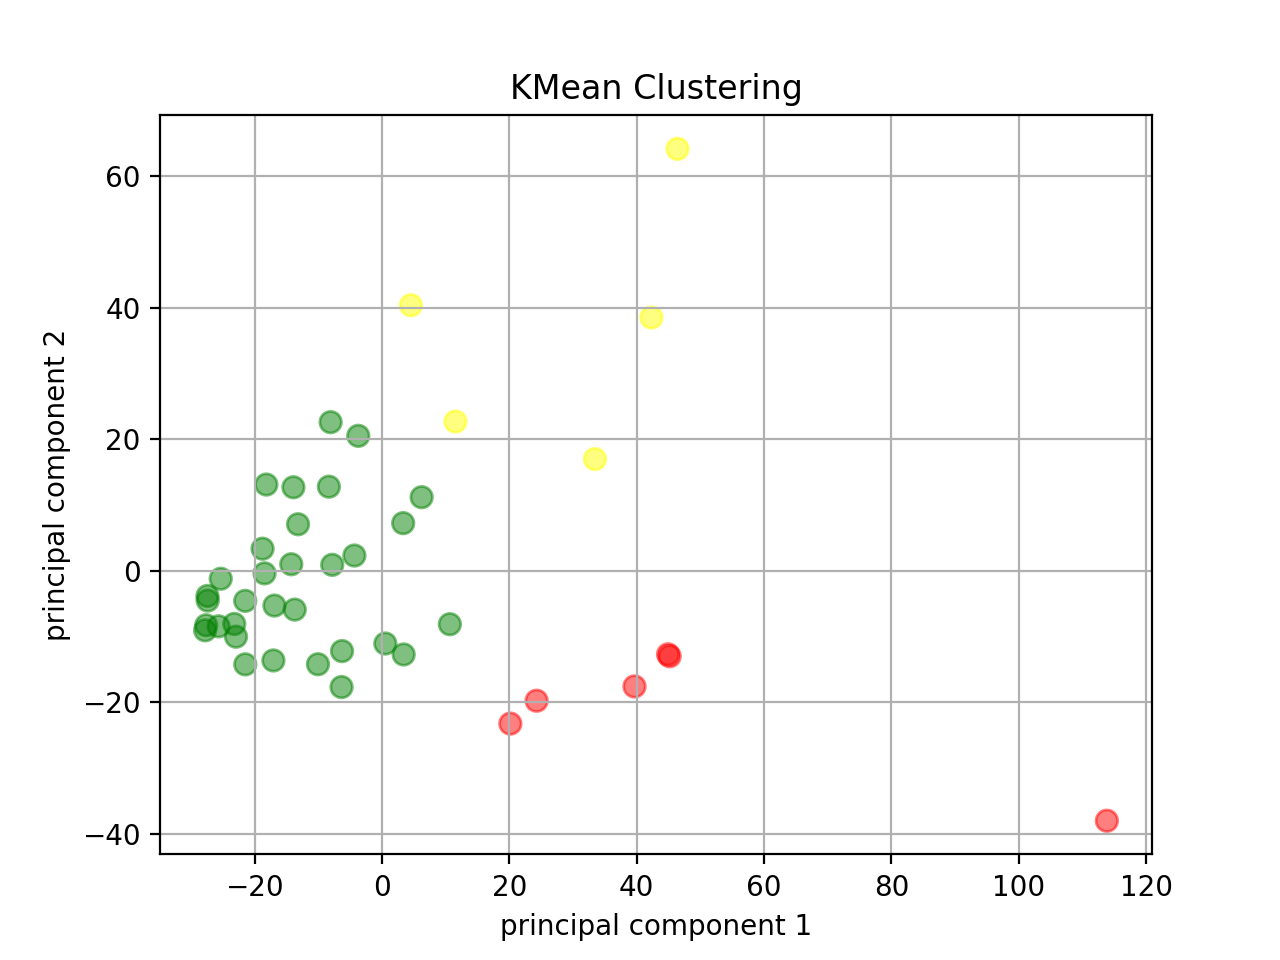
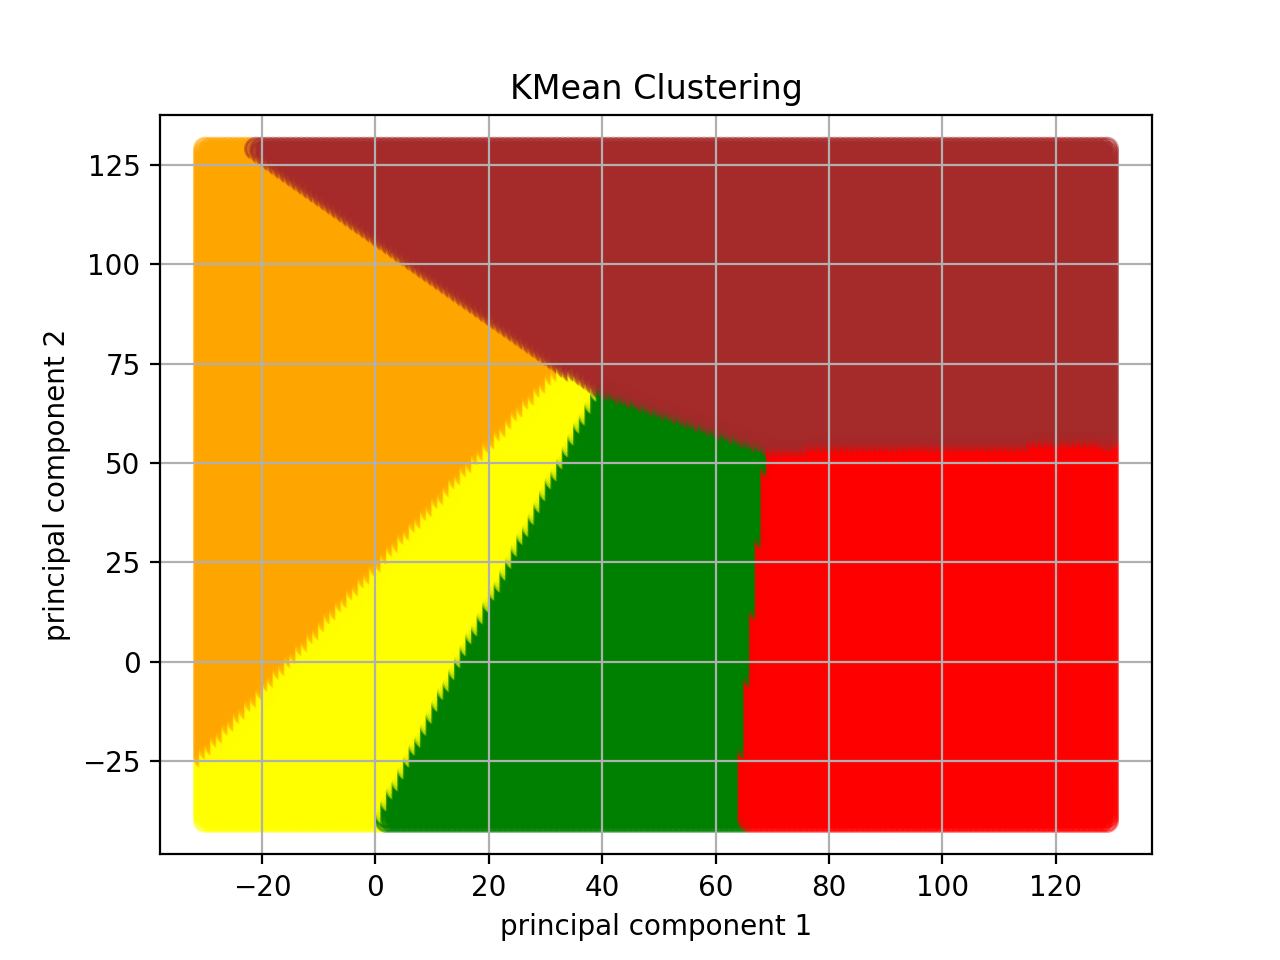
clustering(regions), plus some fronted updates

diff --git a/core/templates/index.html b/core/templates/index.html
@@ -1,28 +1,45 @@
 {% extends 'base.html' %}
 {% load static %}
 
-{% block title %}Main form{% endblock %}
+{% block title %}Перевірте зону ризику вашого паціента{% endblock %}
 
 {% block content %}
-<img id="kmeans" src="/static/images/KMeans_Cluster.png" class="rounded" alt="cluster" width="800px">
-<div class="form-group">
-  <label for="sel1">Select matrix:</label>
-  <select class="form-control" id="sel1" onchange="selectImage(this)">
-    {% for s in samples %}
-      <option>{{s}}</option>
-    {% endfor %}
-  </select>
+<h2>Перевірте зону ризику вашого паціента</h2>
+<p>Для користувачів системи ДіаКард</p>
+<div class="row">
+  <div class="col-6">
+    <br/>
+    <h3>Що для цього потрібно зробити:</h3>
+    <br/>
+    <ul>
+      <li>Експортувати RR-інтервали з дослідження системою ДіаКард</li>
+      <li>Завантажити експортований файл</li>
+      <li>Отримати оцінку зони ризику сформованою штучним інтелектом</li>
+    </ul>
+  </div>
+  <div class="col-6">
+    <div class="card">
+      <div class="card-header">Завантаження файлу з RR-інтервалами</div>
+      <div class="card-body">
+        <form id="upload-form" method="post" class="form" name="uploadForm" enctype="multipart/form-data"> {% csrf_token %}
+          <div class="form-group">
+            <input name="inputBeats" type="file" class="form-control" id="input-beats" accept=".beat" placeholder="Вибріть файл з RR-інтервалами (*.beat)"
+                   required autocomplete="off" data-validation-required-message="Обовз'язково виберіть файл з RR-інтервалами">
+            <p class="help-block text-danger"></p>
+          </div>
+          <p class="msg_error">{{info}}</p>
+          <div class="form-group text-right">
+            <button type="submit" class="btn btn-primary color">Завантажити &raquo;</button>
+          </div>
+        </form>
+      </div>
+    </div>
+  </div>
 </div>
-<img id="heatmap" src="/api/heatmap/1/" class="rounded" alt="matrix_heatmap">
 {% endblock %}
 
 {% block js_content %}
 <script>
-function selectImage(sel){
- const img = document.getElementById("heatmap");
- const n = sel.value;
- console.log(n);
- img.setAttribute("src", `/api/heatmap/${n}/`);
-}
+
 </script>
 {% endblock %}

diff --git a/core/templates/index0.html b/core/templates/index0.html
@@ -1,0 +1,28 @@
+{% extends 'base.html' %}
+{% load static %}
+
+{% block title %}Main form{% endblock %}
+
+{% block content %}
+<img id="kmeans" src="/static/images/KMeans_Cluster.png" class="rounded" alt="cluster" width="800px">
+<div class="form-group">
+  <label for="sel1">Select matrix:</label>
+  <select class="form-control" id="sel1" onchange="selectImage(this)">
+    {% for s in samples %}
+      <option>{{s}}</option>
+    {% endfor %}
+  </select>
+</div>
+<img id="heatmap" src="/api/heatmap/1/" class="rounded" alt="matrix_heatmap">
+{% endblock %}
+
+{% block js_content %}
+<script>
+function selectImage(sel){
+ const img = document.getElementById("heatmap");
+ const n = sel.value;
+ console.log(n);
+ img.setAttribute("src", `/api/heatmap/${n}/`);
+}
+</script>
+{% endblock %}

diff --git a/core/templates/base.html b/core/templates/base.html
@@ -13,7 +13,7 @@
 {% block modal %} {% endblock %}
 <div class="container">
     <div class="d-flex flex-column flex-md-row align-items-center p-3 px-md-4 mb-3 bg-white border-bottom shadow-sm">
-      <h5 class="my-0 mr-md-auto font-weight-normal"><a href="/">RR Matrixes</a></h5>
+      <h5 class="my-0 mr-md-auto font-weight-normal"><a href="/">Smart Heart Checker</a></h5>
     {% if user.is_authenticated %}
       <a class="btn" href="#">{{ user.username }}</a>
       <a class="btn btn-outline-primary" href="{% url 'logout' %}">Logout</a>

diff --git a/core/templates/heatmap.html b/core/templates/heatmap.html
@@ -1,0 +1,9 @@
+{% extends 'base.html' %}
+{% load static %}
+
+{% block title %}Мапа активності серця{% endblock %}
+
+{% block content %}
+<h2>Мапа активності серця паціента</h2>
+<img id="heatmap" src="/api/heatmap/patient/?heatmap_fn={{heatmap_fn}}" class="rounded" alt="matrix_heatmap">
+{% endblock %}

diff --git a/core/tools.py b/core/tools.py
@@ -1,5 +1,7 @@
 import numpy as np
 import os
+import tempfile
+import pickle
 from sklearn.decomposition import PCA
 from sklearn.preprocessing import StandardScaler
 from sklearn.cluster import KMeans
@@ -9,8 +11,22 @@ R_MIN = 0.2 #200 miliseconds - minimal RR
 R_MAX = 1.9 #2000 miliseconds - maximal RR
 N_CELLS= 60 #quantity of cells
 N_RANGES = 10 #quantity of ranges
-N_CLUSTERS = 3 #quantity of clusters
-CLUSTER_COLOURS = ['green', 'yellow', 'red']
+N_CLUSTERS = 5 #quantity of clusters
+MODEL_FN = 'clustering_model.npy' #
+CLUSTER_COLOURS = ['green', 'yellow', 'orange', 'brown', 'red']
+
+
+def save_bin(bin, fn):
+    fp = open(fn,'w')
+    fp.write(bin)
+    fp.close()
+
+
+def save_temp(content, dir, prefix, suffix):
+    tf = tempfile.NamedTemporaryFile(delete=False, dir=dir, prefix=prefix, suffix=suffix)
+    tf.write(content)
+    tf.flush()
+    return os.path.basename(tf.name)
 
 
 def rr_reader(filename):
@@ -95,9 +111,29 @@ def store_matrix_list(matrix_list, path):
     np.save(os.path.join(path, 'rr_matrixes.npy'), np.array(matrix_list))
 
 
+def store_heatmap(rr_matrix, path, fn):
+    np.save(os.path.join(path, fn), rr_matrix)
+
+
+def store_model(model, path, fn):
+    fp = open(os.path.join(path, fn), 'wb')
+    pickle.dump(model, fp)
+
+
+def load_model(path, fn):
+    fp = open(os.path.join(path, fn), 'rb')
+    model = pickle.load(fp)
+    return model
+
+
 def load_matrix_list(path):
     matrix_list = np.load(os.path.join(path, 'rr_matrixes.npy'))
     return matrix_list
+
+
+def load_heatmap(path, fn):
+    rr_matrix = np.load(os.path.join(path, fn))
+    return rr_matrix
 
 
 def get_matrix_list_count(path):
@@ -165,10 +201,14 @@ def pca_transform(x, n_components =2):
 
 
 def clustering(pc_x, n_clusters=N_CLUSTERS):
-    model = KMeans(n_clusters=N_CLUSTERS)
+    model = KMeans(n_clusters=n_clusters)
     model.fit(pc_x)
     return model
 
 
 def predict_cluster(model, pc_x):
     return model.predict(pc_x)
+
+
+def make_group_map(range1, range2):
+    return np.array([(pc1, pc2) for pc1 in range(range1[0], range1[1]) for pc2 in range(range2[0], range2[1])])

diff --git a/core/views.py b/core/views.py
@@ -1,7 +1,11 @@
-from django.shortcuts import render
 import os
+import datetime
+from django.shortcuts import render
+from django.http import HttpResponseRedirect
 from django.views.generic.base import TemplateView
-from core.tools import get_matrix_list_count
+from django.conf import settings
+
+from core.tools import get_matrix_list_count, save_temp, load_beat_matrix, store_heatmap
 
 
 # Create your views here.
@@ -14,3 +18,39 @@ class HomeView(TemplateView):
         n = get_matrix_list_count(path)
         context['samples'] = range(1, n+1)
         return context
+
+
+def view_upload_start(request):
+    info = request.GET.get('info')
+    if info is None:
+        info = ''
+    data = request.FILES.get('inputBeats')
+    if data is None:
+        return render(request, 'index.html', {'info' : info})
+    return upload_transfer(request)
+
+
+def upload_transfer(request):
+    data = request.FILES.get('inputBeats')
+    if data is None:
+        return HttpResponseRedirect('/?info = Beat File was not assigned')
+    if data.size == 0:
+        return HttpResponseRedirect('/?info = Beat File damaged')
+
+    dir = os.path.join(settings.BASE_DIR, 'upload')
+    temp_fn = save_temp(data.read(), dir, 'ecg_','.beat')
+    b,e = os.path.splitext(temp_fn)
+    fn_heat = b + '.heatmap'
+    ext_fn = os.path.join(dir, temp_fn)
+    norm_matrix_rr = load_beat_matrix(ext_fn)
+    store_heatmap(norm_matrix_rr, dir, fn_heat)
+    resp = HttpResponseRedirect('/heatmap/')
+    resp.set_cookie('heatmap_file', value=fn_heat, max_age=7*24*60*60)
+    return resp
+
+
+def view_heatmap(request):
+    beat_fn = request.COOKIES.get('heatmap_file')
+    if beat_fn is None:
+        return HttpResponseRedirect('/')
+    return render(request, 'heatmap.html', {'heatmap_fn': beat_fn})

diff --git a/core/management/commands/transform.py b/core/management/commands/transform.py
@@ -1,9 +1,8 @@
 import os
-import numpy as np
 from django.core.management.base import BaseCommand
-from core.tools import load_matrix_list, pca_transform, get_x_for_pca, clustering, predict_cluster, CLUSTER_COLOURS
+from core.tools import load_matrix_list, pca_transform, get_x_for_pca, clustering, \
+    predict_cluster, CLUSTER_COLOURS, load_model, MODEL_FN, make_group_map
 from django.conf import settings
-from PIL import Image
 import matplotlib.pyplot as plt
 
 
@@ -17,10 +16,13 @@ class Command(BaseCommand):
 
     def handle(self, *args, **options):
         path = os.path.join(settings.BASE_DIR, 'samples')
-        matrix_list = load_matrix_list(path)
-        x_for_pca = get_x_for_pca(matrix_list)
-        pc_x = pca_transform(x_for_pca)
-        model = clustering(pc_x)
+        # matrix_list = load_matrix_list(path)
+        # x_for_pca = get_x_for_pca(matrix_list)
+        # pc_x = pca_transform(x_for_pca)
+        # print(pc_x)
+        pc_x = make_group_map((-30, 130), (-40, 130))
+        model = load_model(path, MODEL_FN)
+
         groups = predict_cluster(model, pc_x)
         # print(groups)
         colours = [CLUSTER_COLOURS[g] for g in groups]
@@ -33,3 +35,6 @@ class Command(BaseCommand):
         figure = ax.get_figure()
         figure.savefig('static/images/KMeans_Cluster.png', dpi=200)
         # plt.show()
+
+
+

diff --git a/api/views.py b/api/views.py
@@ -3,7 +3,7 @@ from PIL import Image
 from io import BytesIO
 import seaborn as sn
 import os
-from core.tools import load_matrix_list
+from core.tools import load_matrix_list, load_heatmap
 
 
 def get_image_response(img, format="png"):
@@ -19,6 +19,23 @@ def view_heatmap_image(request, n):
     if n < 1 or n > matrix_list.shape[0]:
         return HttpResponseNotFound()
     norm_matrix_rr = matrix_list[n-1]
+    svm = sn.heatmap(norm_matrix_rr, cmap='coolwarm', center=0)  # linecolor='white', linewidths=1,
+    svm.invert_yaxis()
+    figure = svm.get_figure()
+    figure_data = BytesIO()
+    figure.savefig(figure_data, dpi=120)
+    figure.clf()
+    img = Image.open(figure_data)
+    return get_image_response(img)
+
+
+def view_patient_heatmap_image(request):
+    path = os.path.abspath('upload')
+    fn = request.GET.get('heatmap_fn') + '.npy'
+    ext_fn = os.path.join(path, fn)
+    if not os.path.isfile(ext_fn):
+        return HttpResponseNotFound()
+    norm_matrix_rr = load_heatmap(path, fn)
     svm = sn.heatmap(norm_matrix_rr, cmap='coolwarm', center=0)  # linecolor='white', linewidths=1,
     svm.invert_yaxis()
     figure = svm.get_figure()

diff --git a/core/management/commands/import.py b/core/management/commands/import.py
@@ -1,6 +1,7 @@
 import os
 from django.core.management.base import BaseCommand
-from core.tools import load_rr_matrix, store_matrix_list, load_beat_matrix
+from core.tools import load_rr_matrix, store_matrix_list, load_beat_matrix, get_x_for_pca, \
+    pca_transform, clustering, store_model, MODEL_FN
 
 
 class Command(BaseCommand):
@@ -27,4 +28,8 @@ class Command(BaseCommand):
                     raise Exception("Unknown type")
                 matrix_list.append(matrix_rr)
         store_matrix_list(matrix_list, path)
+        x_for_pca = get_x_for_pca(matrix_list)
+        pc_x = pca_transform(x_for_pca)
+        model = clustering(pc_x)
+        store_model(model, path, MODEL_FN)
         self.stdout.write("import finished successfully")

diff --git a/core/urls.py b/core/urls.py
@@ -3,5 +3,6 @@ from . import views
 
 
 urlpatterns = [
-        path('', views.HomeView.as_view()),
+        path('heatmap/', views.view_heatmap),
+        path('', views.view_upload_start),
     ]

diff --git a/api/urls.py b/api/urls.py
@@ -3,5 +3,6 @@ from . import views
 
 
 urlpatterns = [
+        path('heatmap/patient/', views.view_patient_heatmap_image),
         path('heatmap/<int:n>/', views.view_heatmap_image),
     ]
